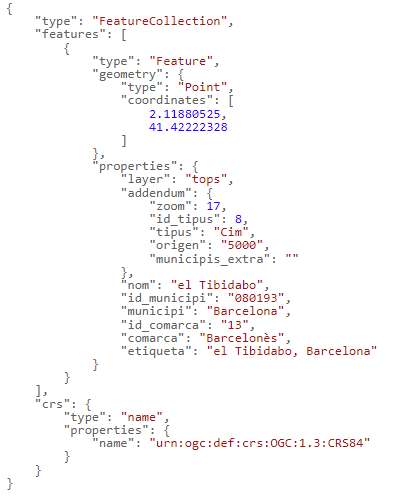
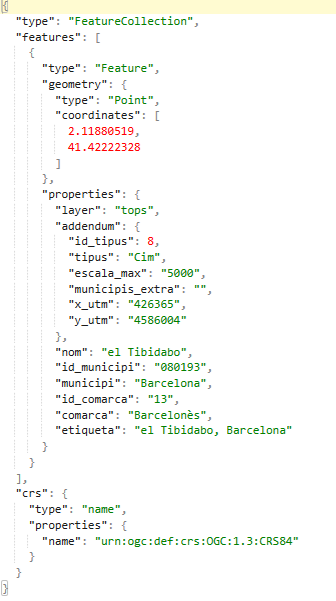
Deployed 8c4dc31 with MkDocs version: 1.5.3

diff --git a/parametres_invers/index.html b/parametres_invers/index.html
@@ -1398,13 +1398,8 @@
 <td>Adreces</td>
 </tr>
 <tr>
-<td><strong>addendum.origen</strong></td>
-<td>Escala origen</td>
-<td>Topònims</td>
-</tr>
-<tr>
-<td><strong>addendum.zoom</strong></td>
-<td>Nivell de zoom òptim</td>
+<td><strong>addendum.escala_max</strong></td>
+<td>Escala màxima</td>
 <td>Topònims</td>
 </tr>
 <tr>
@@ -1431,6 +1426,16 @@
 <td><strong>addendum.bbox_utm</strong></td>
 <td>Coordenades UTM del rectangle contenidor del carrer</td>
 <td>Adreces</td>
+</tr>
+<tr>
+<td><strong>addendum.x_utm</strong></td>
+<td>Coordenada X UTM</td>
+<td>Tots</td>
+</tr>
+<tr>
+<td><strong>addendum.y_utm</strong></td>
+<td>Coordenada Y UTM</td>
+<td>Tots</td>
 </tr>
 <tr>
 <td><strong>via</strong></td>

diff --git a/parametres_autocompletar/index.html b/parametres_autocompletar/index.html
@@ -1502,13 +1502,8 @@
 <td>Tots</td>
 </tr>
 <tr>
-<td><strong>addendum.origen</strong></td>
-<td>Escala origen</td>
-<td>Topònims</td>
-</tr>
-<tr>
-<td><strong>addendum.zoom</strong></td>
-<td>Nivell de zoom òptim</td>
+<td><strong>addendum.escala_max</strong></td>
+<td>Escala màxima</td>
 <td>Topònims</td>
 </tr>
 <tr>
@@ -1535,6 +1530,16 @@
 <td><strong>addendum.bbox_utm</strong></td>
 <td>Coordenades UTM del rectangle contenidor del carrer</td>
 <td>Adreces</td>
+</tr>
+<tr>
+<td><strong>addendum.x_utm</strong></td>
+<td>Coordenada X UTM</td>
+<td>Tots</td>
+</tr>
+<tr>
+<td><strong>addendum.y_utm</strong></td>
+<td>Coordenada Y UTM</td>
+<td>Tots</td>
 </tr>
 <tr>
 <td><strong>via</strong></td>

diff --git a/parametres_cerca/index.html b/parametres_cerca/index.html
@@ -1495,13 +1495,8 @@
 <td>Tots</td>
 </tr>
 <tr>
-<td><strong>addendum.origen</strong></td>
-<td>Escala origen</td>
-<td>Topònims</td>
-</tr>
-<tr>
-<td><strong>addendum.zoom</strong></td>
-<td>Nivell de zoom òptim</td>
+<td><strong>addendum.escala_max</strong></td>
+<td>Escala màxima</td>
 <td>Topònims</td>
 </tr>
 <tr>
@@ -1528,6 +1523,16 @@
 <td><strong>addendum.bbox_utm</strong></td>
 <td>Coordenades UTM del rectangle contenidor del carrer</td>
 <td>Adreces</td>
+</tr>
+<tr>
+<td><strong>addendum.x_utm</strong></td>
+<td>Coordenada X UTM</td>
+<td>Tots</td>
+</tr>
+<tr>
+<td><strong>addendum.y_utm</strong></td>
+<td>Coordenada Y UTM</td>
+<td>Tots</td>
 </tr>
 <tr>
 <td><strong>via</strong></td>

diff --git a/versions/index.html b/versions/index.html
@@ -1137,6 +1137,26 @@
 <td>Incorporació de dades de punts quilomètrics</td>
 <td>11/2024</td>
 </tr>
+<tr>
+<td>2.15</td>
+<td>Filtre per municipi si esta indicat</td>
+<td>04/2025</td>
+</tr>
+<tr>
+<td>2.16</td>
+<td>Cerques difuses a operacio autocompletar</td>
+<td>04/2025</td>
+</tr>
+<tr>
+<td>2.17</td>
+<td>Canvis en tractament adreces i edificacions aïllades. Nous camps: nexe_via,  nom_via, codi_via_ine, bloc, area.</td>
+<td>10/2025</td>
+</tr>
+<tr>
+<td>2.17.1</td>
+<td>Canvis en tractament de topònims: Nou camp: escala_max. No es retornen els camps addendum.origen i addendum.zoom</td>
+<td>11/2025</td>
+</tr>
 </tbody>
 </table>
 

diff --git a/ex_llogaret1/index.html b/ex_llogaret1/index.html
@@ -1060,7 +1060,8 @@
 <a href="https://eines.icgc.cat/geocodificador/autocompletar?text=carrer%20de%20l%27esglesia%201,la%20vall%20de%20boi&amp;layers=address&amp;size=6" target="_blank">https://eines.icgc.cat/geocodificador/autocompletar?text=<span style="color:red"><strong>carrer%20de%20l%27esglesia%201,la%20vall%20de%20boi</strong></span>&amp;layers=address&amp;size=6</a></p>
 <p><img alt="" src="../img/llogaret1.png" /></p>
 <p>La resposta és:</p>
-<p><img alt="" src="../img/llogaret.png" /></p>
+<p><img alt="" src="../img/llogaret-superior.png" />
+ <img alt="" src="../img/llogaret-inferior.png" /></p>
 
 
 
